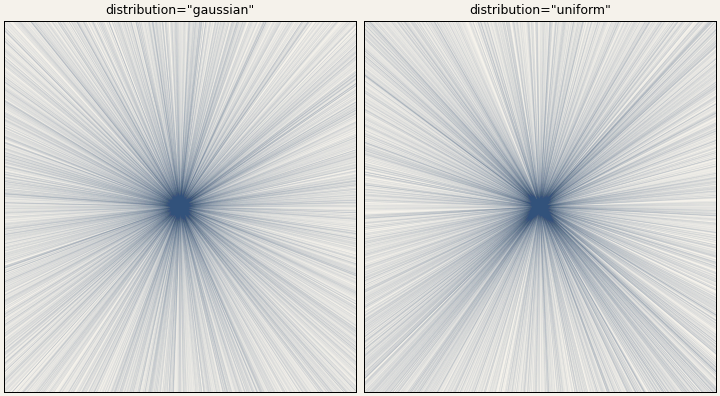
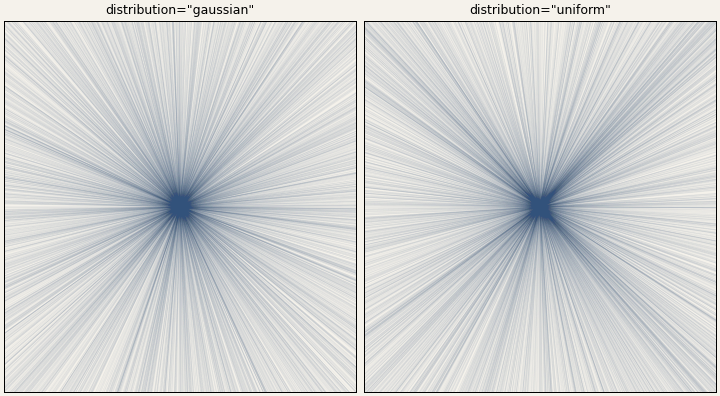
feat: random fields take an rng (np.random.Generator or seed)
NoiseField, FieldSelect and MatrixColorField no longer use the global
np.random state. The demos share one seeded Generator, so their figures
are still reproducible; the random ones were regenerated.

diff --git a/src/tstudio/color_fields/matrixcolorfield.py b/src/tstudio/color_fields/matrixcolorfield.py
@@ -25,12 +25,14 @@ class MatrixColorField(ColorField):
         data: Array of RGB colors with shape (H, W, 3).
         n_colors: Size of the palette.
         random_state: Seed for k-means.  It does not affect the color draws,
-            which use the global NumPy random state.
+            which use ``rng``.
         kernel_size: Side of the window, as a fraction of the largest side of
             the matrix.
         temperature: Lower values favour the most common color in the window,
             and higher values approach a uniform draw from the whole palette,
             including colors that are absent from the window.
+        rng: Random generator for the color draws, or a seed for one.
+            ``None`` takes a fresh seed from the operating system.
     """
 
     def __init__(
@@ -42,6 +44,7 @@ class MatrixColorField(ColorField):
         random_state: int = 0,
         kernel_size: float = 0.05,
         temperature: float = 1.0,
+        rng: np.random.Generator | int | None = None,
     ):
         super().__init__()
         self.min_corner = min_corner
@@ -51,6 +54,7 @@ class MatrixColorField(ColorField):
         self.random_state = random_state
         self.kernel_size = kernel_size
         self.temperature = temperature
+        self.rng = np.random.default_rng(rng)
 
         # Perform k-means clustering to find the n_colors most representative colors
         self.kmeans = KMeans(
@@ -127,5 +131,5 @@ class MatrixColorField(ColorField):
         The ``random_state`` argument is not used.
         """
         probs = self.get_probs(x)
-        sample = np.random.choice(list(range(self.n_colors)), p=probs.flatten())
+        sample = self.rng.choice(self.n_colors, p=probs.flatten())
         return self.kmeans.cluster_centers_[sample]

diff --git a/src/tstudio/vector_fields/select.py b/src/tstudio/vector_fields/select.py
@@ -50,6 +50,8 @@ class FieldSelect(FlowField):
             of vectors interpolated during a transition.
         lerp_len: Number of steps over which to interpolate between field
             transitions.  0 = instantaneous switch.
+        rng: Random generator, or a seed for one.  ``None`` takes a fresh
+            seed from the operating system.
     """
 
     def __init__(
@@ -61,6 +63,7 @@ class FieldSelect(FlowField):
         temperature: float = 0.0,
         normalize: bool = True,
         lerp_len: int = 0,
+        rng: np.random.Generator | int | None = None,
     ):
         self.list_of_fields = fields
         self.weights = weights
@@ -70,6 +73,7 @@ class FieldSelect(FlowField):
         self.temperature = temperature
         self.lerp_len = lerp_len
         self.lerp_count = 0
+        self.rng = np.random.default_rng(rng)
 
         self.last_idx = self.select_index().tolist()
         fields = [self.list_of_fields[i] for i in self.last_idx]
@@ -115,7 +119,7 @@ class FieldSelect(FlowField):
             p = p**(1.0 / (1.0 + self.temperature))
             p = p / np.sum(p)
 
-        idx = np.random.choice(
+        idx = self.rng.choice(
             len(self.list_of_fields),
             p=p,
             # Fields with zero probability are never drawn, even if that means
@@ -133,7 +137,7 @@ class FieldSelect(FlowField):
         Returns the flowfield vector at point x.
         """
         if (self.last_idx is None\
-                or np.random.rand() < self.change_id_prob)\
+                or self.rng.random() < self.change_id_prob)\
                 and self.lerp_count == 0:
             self.last_idx = self.select_index(x).tolist()
             fields = [self.list_of_fields[i] for i in self.last_idx]

diff --git a/src/tstudio/vector_fields/noise.py b/src/tstudio/vector_fields/noise.py
@@ -27,6 +27,8 @@ class NoiseField(FlowField):
         normalize: Whether to L2-normalise the output vector.
         distribution: Distribution of each coordinate, either ``"gaussian"`` or
             ``"uniform"``.
+        rng: Random generator, or a seed for one.  ``None`` takes a fresh
+            seed from the operating system.
         **kwargs: Ignored.
     """
 
@@ -34,6 +36,7 @@ class NoiseField(FlowField):
         self,
         normalize: bool = True,
         distribution: str = "gaussian",
+        rng: np.random.Generator | int | None = None,
         **kwargs,
     ):
         super().__init__()
@@ -41,15 +44,16 @@ class NoiseField(FlowField):
             raise ValueError(f"Unknown distribution: {distribution}")
         self.normalize = normalize
         self.distribution = distribution
+        self.rng = np.random.default_rng(rng)
 
     def __call__(self, x: np.ndarray) -> np.ndarray:
         """
         Returns a new random vector with the same shape as x.
         """
         if self.distribution == "gaussian":
-            noise = np.random.normal(size=x.shape)
+            noise = self.rng.normal(size=x.shape)
         else:
-            noise = np.random.uniform(low=-1.0, high=1.0, size=x.shape)
+            noise = self.rng.uniform(low=-1.0, high=1.0, size=x.shape)
         if self.normalize:
             noise = normalize_vector(noise)
         return noise

diff --git a/demos/16-field_tree.py b/demos/16-field_tree.py
@@ -2,7 +2,7 @@ import numpy as np
 import tstudio.scalar_fields as sf
 import tstudio.vector_fields as vf
 from tstudio.color_fields import MatrixColorField
-from _common import EIFFEL_MAX, EIFFEL_MIN, EIFFEL_X, EIFFEL_Y, eiffel, panels, save, strokes
+from _common import EIFFEL_MAX, EIFFEL_MIN, EIFFEL_X, EIFFEL_Y, RNG, eiffel, panels, save, strokes
 
 # Fields nest: this tree blends a spiral and a FieldMax, and the image decides
 # where each branch counts. The same image gives the colors.
@@ -16,7 +16,7 @@ regions = vf.FieldMax(
     weights=[sf.GaussianField(np.array([0.3, 0.7]), sigma=0.4), sf.GaussianField(np.array([1.2, 0.2]), sigma=0.4)],
 )
 field = vf.FieldSum(
-    fields=[spiral, regions, vf.NoiseField()],
+    fields=[spiral, regions, vf.NoiseField(rng=RNG)],
     weights=[
         sf.MatrixField(EIFFEL_MIN, EIFFEL_MAX, eiffel("L"), normalize=True),
         sf.ConstantField(0.5),
@@ -24,7 +24,7 @@ field = vf.FieldSum(
     ],
 )
 
-color_field = MatrixColorField(EIFFEL_MIN, EIFFEL_MAX, eiffel(), n_colors=16, temperature=0.05)
+color_field = MatrixColorField(EIFFEL_MIN, EIFFEL_MAX, eiffel(), n_colors=16, temperature=0.05, rng=RNG)
 # MatrixColorField has y=0 at the top of the image, so y is flipped here.
 color = lambda x: color_field(np.array([x[0], EIFFEL_MAX[1] - x[1]]))
 

diff --git a/demos/08-noise_field.py b/demos/08-noise_field.py
@@ -1,8 +1,8 @@
 import numpy as np
 import tstudio.vector_fields as vf
-from _common import panels, save, strokes
+from _common import RNG, panels, save, strokes
 
-noise = vf.NoiseField()
+noise = vf.NoiseField(rng=RNG)
 noisy_rotation = vf.FieldSum(
     fields=[vf.RotationField(np.zeros(2)), noise],
     weights=[1.0, 1.0],
@@ -10,7 +10,7 @@ noisy_rotation = vf.FieldSum(
 
 fig, axes = panels(["normalize=True", "normalize=False", "added to a rotation"])
 strokes(axes[0], noise, n_lines=60, n_steps=500, start=np.zeros(2), step=0.02)
-strokes(axes[1], vf.NoiseField(normalize=False), n_lines=60, n_steps=500, start=np.zeros(2), step=0.02)
+strokes(axes[1], vf.NoiseField(normalize=False, rng=RNG), n_lines=60, n_steps=500, start=np.zeros(2), step=0.02)
 strokes(axes[2], noisy_rotation)
 save(fig, __file__)
 
@@ -18,6 +18,6 @@ save(fig, __file__)
 distributions = ["gaussian", "uniform"]
 fig, axes = panels([f'distribution="{d}"' for d in distributions])
 for ax, distribution in zip(axes, distributions):
-    field = vf.NoiseField(distribution=distribution)
+    field = vf.NoiseField(distribution=distribution, rng=RNG)
     strokes(ax, field, n_lines=4000, n_steps=1, step=1.5, start=np.zeros(2), alpha=0.05)
 save(fig, __file__, "_directions")

diff --git a/demos/12-matrix_color_field.py b/demos/12-matrix_color_field.py
@@ -1,6 +1,6 @@
 import numpy as np
 from tstudio.color_fields import MatrixColorField
-from _common import EIFFEL_MAX, EIFFEL_MIN, EIFFEL_X, EIFFEL_Y, eiffel, panels, save
+from _common import EIFFEL_MAX, EIFFEL_MIN, EIFFEL_X, EIFFEL_Y, RNG, eiffel, panels, save
 
 data = eiffel()
 options = {
@@ -11,8 +11,8 @@ options = {
 
 fig, axes = panels(list(options), EIFFEL_X, EIFFEL_Y)
 for ax, kwargs in zip(axes, options.values()):
-    color_field = MatrixColorField(EIFFEL_MIN, EIFFEL_MAX, data, kernel_size=0.05, **kwargs)
-    points = np.random.uniform(EIFFEL_MIN, EIFFEL_MAX, size=(30000, 2))
+    color_field = MatrixColorField(EIFFEL_MIN, EIFFEL_MAX, data, kernel_size=0.05, rng=RNG, **kwargs)
+    points = RNG.uniform(EIFFEL_MIN, EIFFEL_MAX, size=(30000, 2))
     colors = [color_field(point) for point in points]
     # MatrixColorField has y=0 at the top of the image, so y is flipped to draw.
     ax.scatter(points[:, 0], EIFFEL_MAX[1] - points[:, 1], color=colors, s=3)

diff --git a/demos/_common.py b/demos/_common.py
@@ -18,7 +18,9 @@ EIFFEL_Y = (0, 1)
 EIFFEL_MIN = np.array([EIFFEL_X[0], EIFFEL_Y[0]])
 EIFFEL_MAX = np.array([EIFFEL_X[1], EIFFEL_Y[1]])
 
-np.random.seed(0)
+# Every random draw in the demos comes from this generator, so the figures
+# are the same each time a demo runs.
+RNG = np.random.default_rng(0)
 
 
 def eiffel(mode="RGB"):
@@ -88,7 +90,7 @@ def strokes(
     colors = []
     for _ in range(n_lines):
         if start is None:
-            x = np.array([np.random.uniform(*xlim), np.random.uniform(*ylim)])
+            x = np.array([RNG.uniform(*xlim), RNG.uniform(*ylim)])
         else:
             x = np.array(start, dtype=float)
         c = color(x) if callable(color) else color

diff --git a/demos/11-field_select.py b/demos/11-field_select.py
@@ -1,7 +1,7 @@
 import numpy as np
 import tstudio.scalar_fields as sf
 import tstudio.vector_fields as vf
-from _common import panels, save, strokes
+from _common import RNG, panels, save, strokes
 
 # FieldSelect keeps switching between fields as it is called, so a single long
 # line wanders through all of them.
@@ -18,6 +18,6 @@ options = {
 
 fig, axes = panels(list(options))
 for ax, kwargs in zip(axes, options.values()):
-    field = vf.FieldSelect(fields, weights, change_id_prob=0.01, **kwargs)
+    field = vf.FieldSelect(fields, weights, change_id_prob=0.01, rng=RNG, **kwargs)
     strokes(ax, field, n_lines=1, n_steps=8000, start=np.zeros(2), alpha=0.9)
 save(fig, __file__)
